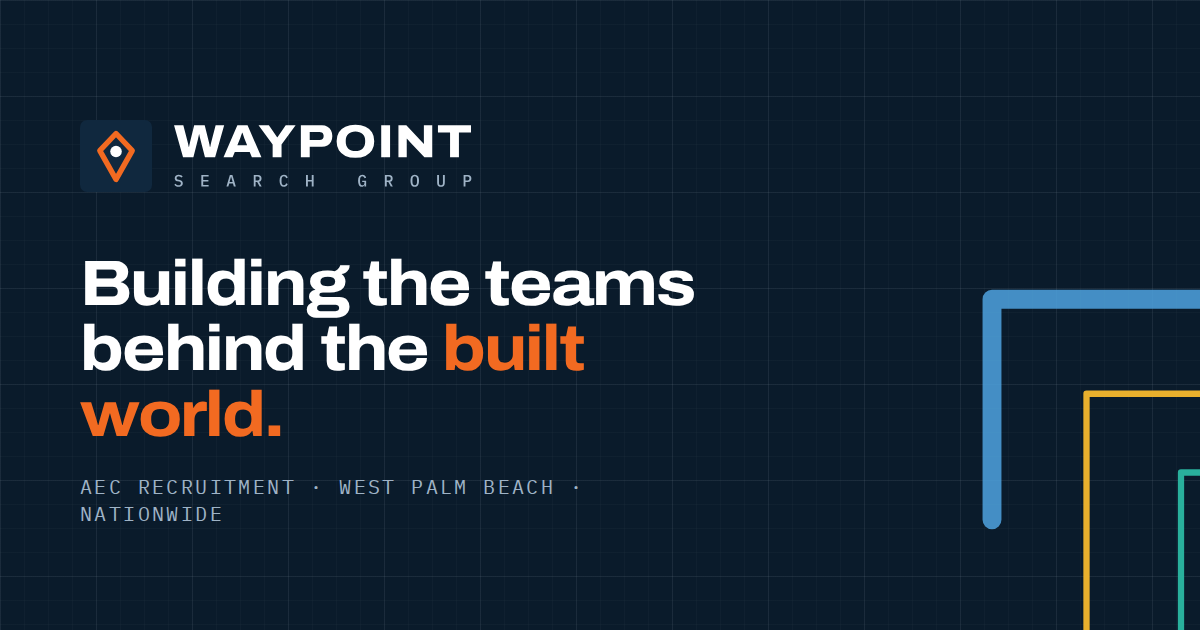
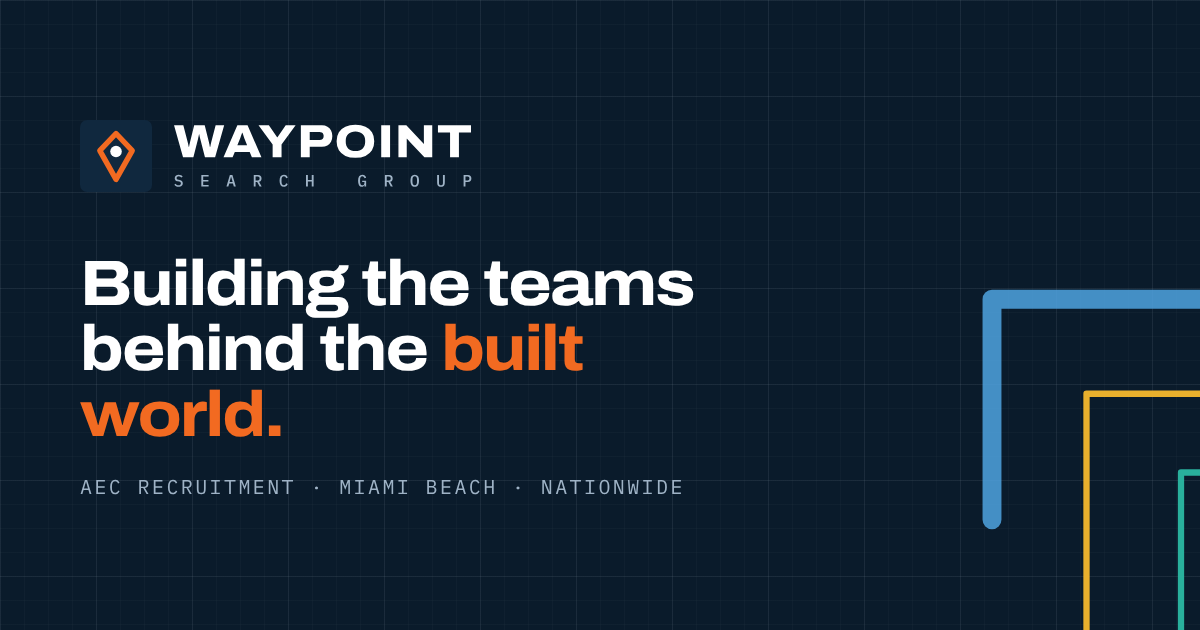
Use Miami Beach mailing address on Waypoint site
Replace the West Palm Beach address with the company's mailing address,
407 Lincoln Road, Suite 6H #1376, Miami Beach, FL 33139, in the footer,
utility bar, contact card, privacy page, meta descriptions, structured
data and map links. Re-render the social share image to match.

Claude-Session: https://claude.ai/code/session_016YGFznVyZapWxq76SbuRbK

diff --git a/waypoint-website/index.html b/waypoint-website/index.html
@@ -4,12 +4,12 @@
   <meta charset="utf-8">
   <meta name="viewport" content="width=device-width, initial-scale=1">
   <title>Waypoint Search Group | MEP, AEC & Construction Recruitment</title>
-  <meta name="description" content="Waypoint Search Group is a West Palm Beach recruitment firm working exclusively in architecture, engineering and construction. MEP, design and construction talent for firms nationwide. You pay only when you hire.">
+  <meta name="description" content="Waypoint Search Group is a Miami Beach recruitment firm working exclusively in architecture, engineering and construction. MEP, design and construction talent for firms nationwide. You pay only when you hire.">
   <link rel="canonical" href="https://waypointsearch.com/">
   <meta property="og:type" content="website">
   <meta property="og:site_name" content="Waypoint Search Group">
   <meta property="og:title" content="Waypoint Search Group | MEP, AEC & Construction Recruitment">
-  <meta property="og:description" content="Waypoint Search Group is a West Palm Beach recruitment firm working exclusively in architecture, engineering and construction. MEP, design and construction talent for firms nationwide. You pay only when you hire.">
+  <meta property="og:description" content="Waypoint Search Group is a Miami Beach recruitment firm working exclusively in architecture, engineering and construction. MEP, design and construction talent for firms nationwide. You pay only when you hire.">
   <meta property="og:url" content="https://waypointsearch.com/">
   <meta name="theme-color" content="#0a1b2b">
   <meta property="og:image" content="https://waypointsearch.com/assets/img/og-image.png">
@@ -24,14 +24,14 @@
   <link rel="stylesheet" href="https://fonts.googleapis.com/css2?family=Archivo:wdth,wght@62..125,100..900&family=IBM+Plex+Mono:wght@400;500&display=swap">
   <link rel="stylesheet" href="/assets/css/styles.css">
   <script>document.documentElement.classList.add("js");</script>
-  <script type="application/ld+json">{"@context":"https://schema.org","@type":"EmploymentAgency","name":"Waypoint Search Group","url":"https://waypointsearch.com/","logo":"https://waypointsearch.com/assets/img/logo-square.png","image":"https://waypointsearch.com/assets/img/og-image.png","telephone":"+1-212-347-0057","email":"info@waypointsearch.com","address":{"@type":"PostalAddress","streetAddress":"700 S. Rosemary Ave, Suite 204","addressLocality":"West Palm Beach","addressRegion":"FL","postalCode":"33401","addressCountry":"US"},"areaServed":"US","description":"Recruitment exclusively for architecture, engineering and construction: MEP engineering, design and construction talent for firms nationwide."}</script>
+  <script type="application/ld+json">{"@context":"https://schema.org","@type":"EmploymentAgency","name":"Waypoint Search Group","url":"https://waypointsearch.com/","logo":"https://waypointsearch.com/assets/img/logo-square.png","image":"https://waypointsearch.com/assets/img/og-image.png","telephone":"+1-212-347-0057","email":"info@waypointsearch.com","address":{"@type":"PostalAddress","streetAddress":"407 Lincoln Rd, Suite 6H #1376","addressLocality":"Miami Beach","addressRegion":"FL","postalCode":"33139","addressCountry":"US"},"areaServed":"US","description":"Recruitment exclusively for architecture, engineering and construction: MEP engineering, design and construction talent for firms nationwide."}</script>
 </head>
 <body>
   <a class="skip-link" href="#main">Skip to content</a>
 
   <div class="utility-bar">
     <div class="container">
-      <p class="utility-left">AEC Recruitment · West Palm Beach, FL · Nationwide</p>
+      <p class="utility-left">AEC Recruitment · Miami Beach, FL · Nationwide</p>
       <div class="utility-right">
         <a href="/jobs#apply">Submit a resume</a>
         <a href="tel:+12123470057"><svg viewBox="0 0 24 24" fill="none" stroke="currentColor" stroke-width="1.7" stroke-linecap="round" stroke-linejoin="round" aria-hidden="true"><path d="M5 4h4l2 5-2.5 1.5a11 11 0 0 0 5 5L15 13l5 2v4a2 2 0 0 1-2 2A16 16 0 0 1 3 6a2 2 0 0 1 2-2"/></svg>(212) 347-0057</a>
@@ -124,7 +124,7 @@
           <ul class="hero-proof">
             <li><svg viewBox="0 0 24 24" fill="none" stroke="currentColor" stroke-width="2" stroke-linecap="round" stroke-linejoin="round" aria-hidden="true"><circle cx="12" cy="12" r="9"/><path d="m8 12.5 3 3 5-6"/></svg>Licensed PEs, RAs &amp; certified specialists</li>
             <li><svg viewBox="0 0 24 24" fill="none" stroke="currentColor" stroke-width="2" stroke-linecap="round" stroke-linejoin="round" aria-hidden="true"><circle cx="12" cy="12" r="9"/><path d="m8 12.5 3 3 5-6"/></svg>Contingency &amp; executive search</li>
-            <li><svg viewBox="0 0 24 24" fill="none" stroke="currentColor" stroke-width="2" stroke-linecap="round" stroke-linejoin="round" aria-hidden="true"><circle cx="12" cy="12" r="9"/><path d="m8 12.5 3 3 5-6"/></svg>West Palm Beach HQ · nationwide reach</li>
+            <li><svg viewBox="0 0 24 24" fill="none" stroke="currentColor" stroke-width="2" stroke-linecap="round" stroke-linejoin="round" aria-hidden="true"><circle cx="12" cy="12" r="9"/><path d="m8 12.5 3 3 5-6"/></svg>Based in Miami Beach · nationwide reach</li>
           </ul>
         </div>
 
@@ -703,7 +703,7 @@
             <a href="tel:+12123470057"><svg viewBox="0 0 24 24" fill="none" stroke="currentColor" stroke-width="1.7" stroke-linecap="round" stroke-linejoin="round" aria-hidden="true"><path d="M5 4h4l2 5-2.5 1.5a11 11 0 0 0 5 5L15 13l5 2v4a2 2 0 0 1-2 2A16 16 0 0 1 3 6a2 2 0 0 1 2-2"/></svg>(212) 347-0057</a>
             <a href="mailto:info@waypointsearch.com"><svg viewBox="0 0 24 24" fill="none" stroke="currentColor" stroke-width="1.7" stroke-linecap="round" stroke-linejoin="round" aria-hidden="true"><rect x="3" y="5" width="18" height="14" rx="2"/><path d="m3 7 9 6 9-6"/></svg>info@waypointsearch.com</a>
           </div>
-          <address class="footer-address"><a href="https://www.google.com/maps/search/?api=1&query=700%20S.%20Rosemary%20Ave%2C%20Suite%20204%2C%20West%20Palm%20Beach%2C%20FL%2033401" rel="noopener" target="_blank"><svg viewBox="0 0 24 24" fill="none" stroke="currentColor" stroke-width="2" stroke-linecap="round" stroke-linejoin="round" aria-hidden="true"><path d="M12 21s-7-6.2-7-12a7 7 0 0 1 14 0c0 5.8-7 12-7 12z"/><circle cx="12" cy="9" r="2.5"/></svg><span>700 S. Rosemary Ave, Suite 204<br>West Palm Beach, FL 33401</span></a></address>
+          <address class="footer-address"><a href="https://www.google.com/maps/search/?api=1&query=407%20Lincoln%20Rd%2C%20Miami%20Beach%2C%20FL%2033139" rel="noopener" target="_blank"><svg viewBox="0 0 24 24" fill="none" stroke="currentColor" stroke-width="2" stroke-linecap="round" stroke-linejoin="round" aria-hidden="true"><path d="M12 21s-7-6.2-7-12a7 7 0 0 1 14 0c0 5.8-7 12-7 12z"/><circle cx="12" cy="9" r="2.5"/></svg><span>407 Lincoln Road, Suite 6H #1376<br>Miami Beach, FL 33139</span></a></address>
         </div>
         <div class="footer-col">
           <h3>Employers</h3>

diff --git a/waypoint-website/contact.html b/waypoint-website/contact.html
@@ -30,7 +30,7 @@
 
   <div class="utility-bar">
     <div class="container">
-      <p class="utility-left">AEC Recruitment · West Palm Beach, FL · Nationwide</p>
+      <p class="utility-left">AEC Recruitment · Miami Beach, FL · Nationwide</p>
       <div class="utility-right">
         <a href="/jobs#apply">Submit a resume</a>
         <a href="tel:+12123470057"><svg viewBox="0 0 24 24" fill="none" stroke="currentColor" stroke-width="1.7" stroke-linecap="round" stroke-linejoin="round" aria-hidden="true"><path d="M5 4h4l2 5-2.5 1.5a11 11 0 0 0 5 5L15 13l5 2v4a2 2 0 0 1-2 2A16 16 0 0 1 3 6a2 2 0 0 1 2-2"/></svg>(212) 347-0057</a>
@@ -152,7 +152,7 @@
             <div class="contact-lines">
               <a href="tel:+12123470057"><svg viewBox="0 0 24 24" fill="none" stroke="currentColor" stroke-width="1.7" stroke-linecap="round" stroke-linejoin="round" aria-hidden="true"><path d="M5 4h4l2 5-2.5 1.5a11 11 0 0 0 5 5L15 13l5 2v4a2 2 0 0 1-2 2A16 16 0 0 1 3 6a2 2 0 0 1 2-2"/></svg>(212) 347-0057</a>
               <a href="mailto:info@waypointsearch.com"><svg viewBox="0 0 24 24" fill="none" stroke="currentColor" stroke-width="1.7" stroke-linecap="round" stroke-linejoin="round" aria-hidden="true"><rect x="3" y="5" width="18" height="14" rx="2"/><path d="m3 7 9 6 9-6"/></svg>info@waypointsearch.com</a>
-              <a href="https://www.google.com/maps/search/?api=1&query=700%20S.%20Rosemary%20Ave%2C%20Suite%20204%2C%20West%20Palm%20Beach%2C%20FL%2033401" rel="noopener" target="_blank"><svg viewBox="0 0 24 24" fill="none" stroke="currentColor" stroke-width="2" stroke-linecap="round" stroke-linejoin="round" aria-hidden="true"><path d="M12 21s-7-6.2-7-12a7 7 0 0 1 14 0c0 5.8-7 12-7 12z"/><circle cx="12" cy="9" r="2.5"/></svg><span>700 S. Rosemary Ave, Suite 204<br>West Palm Beach, FL 33401</span></a>
+              <a href="https://www.google.com/maps/search/?api=1&query=407%20Lincoln%20Rd%2C%20Miami%20Beach%2C%20FL%2033139" rel="noopener" target="_blank"><svg viewBox="0 0 24 24" fill="none" stroke="currentColor" stroke-width="2" stroke-linecap="round" stroke-linejoin="round" aria-hidden="true"><path d="M12 21s-7-6.2-7-12a7 7 0 0 1 14 0c0 5.8-7 12-7 12z"/><circle cx="12" cy="9" r="2.5"/></svg><span>407 Lincoln Road, Suite 6H #1376<br>Miami Beach, FL 33139</span></a>
             </div>
           </div>
           <div class="aside-card aside-light">
@@ -176,7 +176,7 @@
           <li><strong>Northeast</strong><span>Boston · New York · Philadelphia</span></li>
           <li><strong>Mid-Atlantic</strong><span>Washington DC · Northern Virginia · Baltimore</span></li>
           <li><strong>Southeast</strong><span>Atlanta · Charlotte · Nashville</span></li>
-          <li><strong>Florida</strong><span>West Palm Beach (HQ) · Miami · Orlando · Tampa</span></li>
+          <li><strong>Florida (home base)</strong><span>Miami · West Palm Beach · Orlando · Tampa</span></li>
           <li><strong>Texas &amp; South Central</strong><span>Dallas · Houston · Austin</span></li>
           <li><strong>Midwest</strong><span>Chicago · Columbus · Minneapolis</span></li>
           <li><strong>Mountain West</strong><span>Denver · Phoenix · Salt Lake City</span></li>
@@ -208,7 +208,7 @@
             <a href="tel:+12123470057"><svg viewBox="0 0 24 24" fill="none" stroke="currentColor" stroke-width="1.7" stroke-linecap="round" stroke-linejoin="round" aria-hidden="true"><path d="M5 4h4l2 5-2.5 1.5a11 11 0 0 0 5 5L15 13l5 2v4a2 2 0 0 1-2 2A16 16 0 0 1 3 6a2 2 0 0 1 2-2"/></svg>(212) 347-0057</a>
             <a href="mailto:info@waypointsearch.com"><svg viewBox="0 0 24 24" fill="none" stroke="currentColor" stroke-width="1.7" stroke-linecap="round" stroke-linejoin="round" aria-hidden="true"><rect x="3" y="5" width="18" height="14" rx="2"/><path d="m3 7 9 6 9-6"/></svg>info@waypointsearch.com</a>
           </div>
-          <address class="footer-address"><a href="https://www.google.com/maps/search/?api=1&query=700%20S.%20Rosemary%20Ave%2C%20Suite%20204%2C%20West%20Palm%20Beach%2C%20FL%2033401" rel="noopener" target="_blank"><svg viewBox="0 0 24 24" fill="none" stroke="currentColor" stroke-width="2" stroke-linecap="round" stroke-linejoin="round" aria-hidden="true"><path d="M12 21s-7-6.2-7-12a7 7 0 0 1 14 0c0 5.8-7 12-7 12z"/><circle cx="12" cy="9" r="2.5"/></svg><span>700 S. Rosemary Ave, Suite 204<br>West Palm Beach, FL 33401</span></a></address>
+          <address class="footer-address"><a href="https://www.google.com/maps/search/?api=1&query=407%20Lincoln%20Rd%2C%20Miami%20Beach%2C%20FL%2033139" rel="noopener" target="_blank"><svg viewBox="0 0 24 24" fill="none" stroke="currentColor" stroke-width="2" stroke-linecap="round" stroke-linejoin="round" aria-hidden="true"><path d="M12 21s-7-6.2-7-12a7 7 0 0 1 14 0c0 5.8-7 12-7 12z"/><circle cx="12" cy="9" r="2.5"/></svg><span>407 Lincoln Road, Suite 6H #1376<br>Miami Beach, FL 33139</span></a></address>
         </div>
         <div class="footer-col">
           <h3>Employers</h3>

diff --git a/waypoint-website/about.html b/waypoint-website/about.html
@@ -4,12 +4,12 @@
   <meta charset="utf-8">
   <meta name="viewport" content="width=device-width, initial-scale=1">
   <title>About Us | Waypoint Search Group</title>
-  <meta name="description" content="Waypoint Search Group is a West Palm Beach recruitment firm for the built environment, connecting MEP, architecture, engineering and construction talent with the firms that need them.">
+  <meta name="description" content="Waypoint Search Group is a Miami Beach recruitment firm for the built environment, connecting MEP, architecture, engineering and construction talent with the firms that need them.">
   <link rel="canonical" href="https://waypointsearch.com/about">
   <meta property="og:type" content="website">
   <meta property="og:site_name" content="Waypoint Search Group">
   <meta property="og:title" content="About Us | Waypoint Search Group">
-  <meta property="og:description" content="Waypoint Search Group is a West Palm Beach recruitment firm for the built environment, connecting MEP, architecture, engineering and construction talent with the firms that need them.">
+  <meta property="og:description" content="Waypoint Search Group is a Miami Beach recruitment firm for the built environment, connecting MEP, architecture, engineering and construction talent with the firms that need them.">
   <meta property="og:url" content="https://waypointsearch.com/about">
   <meta name="theme-color" content="#0a1b2b">
   <meta property="og:image" content="https://waypointsearch.com/assets/img/og-image.png">
@@ -30,7 +30,7 @@
 
   <div class="utility-bar">
     <div class="container">
-      <p class="utility-left">AEC Recruitment · West Palm Beach, FL · Nationwide</p>
+      <p class="utility-left">AEC Recruitment · Miami Beach, FL · Nationwide</p>
       <div class="utility-right">
         <a href="/jobs#apply">Submit a resume</a>
         <a href="tel:+12123470057"><svg viewBox="0 0 24 24" fill="none" stroke="currentColor" stroke-width="1.7" stroke-linecap="round" stroke-linejoin="round" aria-hidden="true"><path d="M5 4h4l2 5-2.5 1.5a11 11 0 0 0 5 5L15 13l5 2v4a2 2 0 0 1-2 2A16 16 0 0 1 3 6a2 2 0 0 1 2-2"/></svg>(212) 347-0057</a>
@@ -103,7 +103,7 @@
         <aside class="page-hero-aside">
           <dl>
             <div><dt>8</dt><dd>Disciplines, each with a dedicated recruiting focus</dd></div>
-            <div><dt>West Palm Beach</dt><dd>Headquarters, with recruiting coverage nationwide</dd></div>
+            <div><dt>Miami Beach</dt><dd>Home base, with recruiting coverage nationwide</dd></div>
             <div><dt>$0</dt><dd>Cost to candidates — always</dd></div>
           </dl>
         </aside>
@@ -251,7 +251,7 @@
             <a href="tel:+12123470057"><svg viewBox="0 0 24 24" fill="none" stroke="currentColor" stroke-width="1.7" stroke-linecap="round" stroke-linejoin="round" aria-hidden="true"><path d="M5 4h4l2 5-2.5 1.5a11 11 0 0 0 5 5L15 13l5 2v4a2 2 0 0 1-2 2A16 16 0 0 1 3 6a2 2 0 0 1 2-2"/></svg>(212) 347-0057</a>
             <a href="mailto:info@waypointsearch.com"><svg viewBox="0 0 24 24" fill="none" stroke="currentColor" stroke-width="1.7" stroke-linecap="round" stroke-linejoin="round" aria-hidden="true"><rect x="3" y="5" width="18" height="14" rx="2"/><path d="m3 7 9 6 9-6"/></svg>info@waypointsearch.com</a>
           </div>
-          <address class="footer-address"><a href="https://www.google.com/maps/search/?api=1&query=700%20S.%20Rosemary%20Ave%2C%20Suite%20204%2C%20West%20Palm%20Beach%2C%20FL%2033401" rel="noopener" target="_blank"><svg viewBox="0 0 24 24" fill="none" stroke="currentColor" stroke-width="2" stroke-linecap="round" stroke-linejoin="round" aria-hidden="true"><path d="M12 21s-7-6.2-7-12a7 7 0 0 1 14 0c0 5.8-7 12-7 12z"/><circle cx="12" cy="9" r="2.5"/></svg><span>700 S. Rosemary Ave, Suite 204<br>West Palm Beach, FL 33401</span></a></address>
+          <address class="footer-address"><a href="https://www.google.com/maps/search/?api=1&query=407%20Lincoln%20Rd%2C%20Miami%20Beach%2C%20FL%2033139" rel="noopener" target="_blank"><svg viewBox="0 0 24 24" fill="none" stroke="currentColor" stroke-width="2" stroke-linecap="round" stroke-linejoin="round" aria-hidden="true"><path d="M12 21s-7-6.2-7-12a7 7 0 0 1 14 0c0 5.8-7 12-7 12z"/><circle cx="12" cy="9" r="2.5"/></svg><span>407 Lincoln Road, Suite 6H #1376<br>Miami Beach, FL 33139</span></a></address>
         </div>
         <div class="footer-col">
           <h3>Employers</h3>

diff --git a/waypoint-website/privacy.html b/waypoint-website/privacy.html
@@ -30,7 +30,7 @@
 
   <div class="utility-bar">
     <div class="container">
-      <p class="utility-left">AEC Recruitment · West Palm Beach, FL · Nationwide</p>
+      <p class="utility-left">AEC Recruitment · Miami Beach, FL · Nationwide</p>
       <div class="utility-right">
         <a href="/jobs#apply">Submit a resume</a>
         <a href="tel:+12123470057"><svg viewBox="0 0 24 24" fill="none" stroke="currentColor" stroke-width="1.7" stroke-linecap="round" stroke-linejoin="round" aria-hidden="true"><path d="M5 4h4l2 5-2.5 1.5a11 11 0 0 0 5 5L15 13l5 2v4a2 2 0 0 1-2 2A16 16 0 0 1 3 6a2 2 0 0 1 2-2"/></svg>(212) 347-0057</a>
@@ -133,7 +133,7 @@
           <p>You can ask us to access, correct or delete the information we hold about you, or to stop contacting you, at any time. Email <a href="mailto:info@waypointsearch.com">info@waypointsearch.com</a>.</p>
 
           <h2>Contact</h2>
-          <p>Waypoint Search Group<br>700 S. Rosemary Ave, Suite 204<br>West Palm Beach, FL 33401<br><a href="tel:+12123470057">(212) 347-0057</a> · <a href="mailto:info@waypointsearch.com">info@waypointsearch.com</a></p>
+          <p>Waypoint Search Group<br>407 Lincoln Road, Suite 6H #1376<br>Miami Beach, FL 33139<br><a href="tel:+12123470057">(212) 347-0057</a> · <a href="mailto:info@waypointsearch.com">info@waypointsearch.com</a></p>
         </article>
       </div>
     </section>
@@ -161,7 +161,7 @@
             <a href="tel:+12123470057"><svg viewBox="0 0 24 24" fill="none" stroke="currentColor" stroke-width="1.7" stroke-linecap="round" stroke-linejoin="round" aria-hidden="true"><path d="M5 4h4l2 5-2.5 1.5a11 11 0 0 0 5 5L15 13l5 2v4a2 2 0 0 1-2 2A16 16 0 0 1 3 6a2 2 0 0 1 2-2"/></svg>(212) 347-0057</a>
             <a href="mailto:info@waypointsearch.com"><svg viewBox="0 0 24 24" fill="none" stroke="currentColor" stroke-width="1.7" stroke-linecap="round" stroke-linejoin="round" aria-hidden="true"><rect x="3" y="5" width="18" height="14" rx="2"/><path d="m3 7 9 6 9-6"/></svg>info@waypointsearch.com</a>
           </div>
-          <address class="footer-address"><a href="https://www.google.com/maps/search/?api=1&query=700%20S.%20Rosemary%20Ave%2C%20Suite%20204%2C%20West%20Palm%20Beach%2C%20FL%2033401" rel="noopener" target="_blank"><svg viewBox="0 0 24 24" fill="none" stroke="currentColor" stroke-width="2" stroke-linecap="round" stroke-linejoin="round" aria-hidden="true"><path d="M12 21s-7-6.2-7-12a7 7 0 0 1 14 0c0 5.8-7 12-7 12z"/><circle cx="12" cy="9" r="2.5"/></svg><span>700 S. Rosemary Ave, Suite 204<br>West Palm Beach, FL 33401</span></a></address>
+          <address class="footer-address"><a href="https://www.google.com/maps/search/?api=1&query=407%20Lincoln%20Rd%2C%20Miami%20Beach%2C%20FL%2033139" rel="noopener" target="_blank"><svg viewBox="0 0 24 24" fill="none" stroke="currentColor" stroke-width="2" stroke-linecap="round" stroke-linejoin="round" aria-hidden="true"><path d="M12 21s-7-6.2-7-12a7 7 0 0 1 14 0c0 5.8-7 12-7 12z"/><circle cx="12" cy="9" r="2.5"/></svg><span>407 Lincoln Road, Suite 6H #1376<br>Miami Beach, FL 33139</span></a></address>
         </div>
         <div class="footer-col">
           <h3>Employers</h3>

diff --git a/waypoint-website/404.html b/waypoint-website/404.html
@@ -31,7 +31,7 @@
 
   <div class="utility-bar">
     <div class="container">
-      <p class="utility-left">AEC Recruitment · West Palm Beach, FL · Nationwide</p>
+      <p class="utility-left">AEC Recruitment · Miami Beach, FL · Nationwide</p>
       <div class="utility-right">
         <a href="/jobs#apply">Submit a resume</a>
         <a href="tel:+12123470057"><svg viewBox="0 0 24 24" fill="none" stroke="currentColor" stroke-width="1.7" stroke-linecap="round" stroke-linejoin="round" aria-hidden="true"><path d="M5 4h4l2 5-2.5 1.5a11 11 0 0 0 5 5L15 13l5 2v4a2 2 0 0 1-2 2A16 16 0 0 1 3 6a2 2 0 0 1 2-2"/></svg>(212) 347-0057</a>
@@ -130,7 +130,7 @@
             <a href="tel:+12123470057"><svg viewBox="0 0 24 24" fill="none" stroke="currentColor" stroke-width="1.7" stroke-linecap="round" stroke-linejoin="round" aria-hidden="true"><path d="M5 4h4l2 5-2.5 1.5a11 11 0 0 0 5 5L15 13l5 2v4a2 2 0 0 1-2 2A16 16 0 0 1 3 6a2 2 0 0 1 2-2"/></svg>(212) 347-0057</a>
             <a href="mailto:info@waypointsearch.com"><svg viewBox="0 0 24 24" fill="none" stroke="currentColor" stroke-width="1.7" stroke-linecap="round" stroke-linejoin="round" aria-hidden="true"><rect x="3" y="5" width="18" height="14" rx="2"/><path d="m3 7 9 6 9-6"/></svg>info@waypointsearch.com</a>
           </div>
-          <address class="footer-address"><a href="https://www.google.com/maps/search/?api=1&query=700%20S.%20Rosemary%20Ave%2C%20Suite%20204%2C%20West%20Palm%20Beach%2C%20FL%2033401" rel="noopener" target="_blank"><svg viewBox="0 0 24 24" fill="none" stroke="currentColor" stroke-width="2" stroke-linecap="round" stroke-linejoin="round" aria-hidden="true"><path d="M12 21s-7-6.2-7-12a7 7 0 0 1 14 0c0 5.8-7 12-7 12z"/><circle cx="12" cy="9" r="2.5"/></svg><span>700 S. Rosemary Ave, Suite 204<br>West Palm Beach, FL 33401</span></a></address>
+          <address class="footer-address"><a href="https://www.google.com/maps/search/?api=1&query=407%20Lincoln%20Rd%2C%20Miami%20Beach%2C%20FL%2033139" rel="noopener" target="_blank"><svg viewBox="0 0 24 24" fill="none" stroke="currentColor" stroke-width="2" stroke-linecap="round" stroke-linejoin="round" aria-hidden="true"><path d="M12 21s-7-6.2-7-12a7 7 0 0 1 14 0c0 5.8-7 12-7 12z"/><circle cx="12" cy="9" r="2.5"/></svg><span>407 Lincoln Road, Suite 6H #1376<br>Miami Beach, FL 33139</span></a></address>
         </div>
         <div class="footer-col">
           <h3>Employers</h3>

diff --git a/waypoint-website/employers.html b/waypoint-website/employers.html
@@ -30,7 +30,7 @@
 
   <div class="utility-bar">
     <div class="container">
-      <p class="utility-left">AEC Recruitment · West Palm Beach, FL · Nationwide</p>
+      <p class="utility-left">AEC Recruitment · Miami Beach, FL · Nationwide</p>
       <div class="utility-right">
         <a href="/jobs#apply">Submit a resume</a>
         <a href="tel:+12123470057"><svg viewBox="0 0 24 24" fill="none" stroke="currentColor" stroke-width="1.7" stroke-linecap="round" stroke-linejoin="round" aria-hidden="true"><path d="M5 4h4l2 5-2.5 1.5a11 11 0 0 0 5 5L15 13l5 2v4a2 2 0 0 1-2 2A16 16 0 0 1 3 6a2 2 0 0 1 2-2"/></svg>(212) 347-0057</a>
@@ -387,7 +387,7 @@
             <a href="tel:+12123470057"><svg viewBox="0 0 24 24" fill="none" stroke="currentColor" stroke-width="1.7" stroke-linecap="round" stroke-linejoin="round" aria-hidden="true"><path d="M5 4h4l2 5-2.5 1.5a11 11 0 0 0 5 5L15 13l5 2v4a2 2 0 0 1-2 2A16 16 0 0 1 3 6a2 2 0 0 1 2-2"/></svg>(212) 347-0057</a>
             <a href="mailto:info@waypointsearch.com"><svg viewBox="0 0 24 24" fill="none" stroke="currentColor" stroke-width="1.7" stroke-linecap="round" stroke-linejoin="round" aria-hidden="true"><rect x="3" y="5" width="18" height="14" rx="2"/><path d="m3 7 9 6 9-6"/></svg>info@waypointsearch.com</a>
           </div>
-          <address class="footer-address"><a href="https://www.google.com/maps/search/?api=1&query=700%20S.%20Rosemary%20Ave%2C%20Suite%20204%2C%20West%20Palm%20Beach%2C%20FL%2033401" rel="noopener" target="_blank"><svg viewBox="0 0 24 24" fill="none" stroke="currentColor" stroke-width="2" stroke-linecap="round" stroke-linejoin="round" aria-hidden="true"><path d="M12 21s-7-6.2-7-12a7 7 0 0 1 14 0c0 5.8-7 12-7 12z"/><circle cx="12" cy="9" r="2.5"/></svg><span>700 S. Rosemary Ave, Suite 204<br>West Palm Beach, FL 33401</span></a></address>
+          <address class="footer-address"><a href="https://www.google.com/maps/search/?api=1&query=407%20Lincoln%20Rd%2C%20Miami%20Beach%2C%20FL%2033139" rel="noopener" target="_blank"><svg viewBox="0 0 24 24" fill="none" stroke="currentColor" stroke-width="2" stroke-linecap="round" stroke-linejoin="round" aria-hidden="true"><path d="M12 21s-7-6.2-7-12a7 7 0 0 1 14 0c0 5.8-7 12-7 12z"/><circle cx="12" cy="9" r="2.5"/></svg><span>407 Lincoln Road, Suite 6H #1376<br>Miami Beach, FL 33139</span></a></address>
         </div>
         <div class="footer-col">
           <h3>Employers</h3>

diff --git a/waypoint-website/insights-counteroffers.html b/waypoint-website/insights-counteroffers.html
@@ -30,7 +30,7 @@
 
   <div class="utility-bar">
     <div class="container">
-      <p class="utility-left">AEC Recruitment · West Palm Beach, FL · Nationwide</p>
+      <p class="utility-left">AEC Recruitment · Miami Beach, FL · Nationwide</p>
       <div class="utility-right">
         <a href="/jobs#apply">Submit a resume</a>
         <a href="tel:+12123470057"><svg viewBox="0 0 24 24" fill="none" stroke="currentColor" stroke-width="1.7" stroke-linecap="round" stroke-linejoin="round" aria-hidden="true"><path d="M5 4h4l2 5-2.5 1.5a11 11 0 0 0 5 5L15 13l5 2v4a2 2 0 0 1-2 2A16 16 0 0 1 3 6a2 2 0 0 1 2-2"/></svg>(212) 347-0057</a>
@@ -174,7 +174,7 @@
             <a href="tel:+12123470057"><svg viewBox="0 0 24 24" fill="none" stroke="currentColor" stroke-width="1.7" stroke-linecap="round" stroke-linejoin="round" aria-hidden="true"><path d="M5 4h4l2 5-2.5 1.5a11 11 0 0 0 5 5L15 13l5 2v4a2 2 0 0 1-2 2A16 16 0 0 1 3 6a2 2 0 0 1 2-2"/></svg>(212) 347-0057</a>
             <a href="mailto:info@waypointsearch.com"><svg viewBox="0 0 24 24" fill="none" stroke="currentColor" stroke-width="1.7" stroke-linecap="round" stroke-linejoin="round" aria-hidden="true"><rect x="3" y="5" width="18" height="14" rx="2"/><path d="m3 7 9 6 9-6"/></svg>info@waypointsearch.com</a>
           </div>
-          <address class="footer-address"><a href="https://www.google.com/maps/search/?api=1&query=700%20S.%20Rosemary%20Ave%2C%20Suite%20204%2C%20West%20Palm%20Beach%2C%20FL%2033401" rel="noopener" target="_blank"><svg viewBox="0 0 24 24" fill="none" stroke="currentColor" stroke-width="2" stroke-linecap="round" stroke-linejoin="round" aria-hidden="true"><path d="M12 21s-7-6.2-7-12a7 7 0 0 1 14 0c0 5.8-7 12-7 12z"/><circle cx="12" cy="9" r="2.5"/></svg><span>700 S. Rosemary Ave, Suite 204<br>West Palm Beach, FL 33401</span></a></address>
+          <address class="footer-address"><a href="https://www.google.com/maps/search/?api=1&query=407%20Lincoln%20Rd%2C%20Miami%20Beach%2C%20FL%2033139" rel="noopener" target="_blank"><svg viewBox="0 0 24 24" fill="none" stroke="currentColor" stroke-width="2" stroke-linecap="round" stroke-linejoin="round" aria-hidden="true"><path d="M12 21s-7-6.2-7-12a7 7 0 0 1 14 0c0 5.8-7 12-7 12z"/><circle cx="12" cy="9" r="2.5"/></svg><span>407 Lincoln Road, Suite 6H #1376<br>Miami Beach, FL 33139</span></a></address>
         </div>
         <div class="footer-col">
           <h3>Employers</h3>

diff --git a/waypoint-website/insights-hiring-licensed-engineers.html b/waypoint-website/insights-hiring-licensed-engineers.html
@@ -30,7 +30,7 @@
 
   <div class="utility-bar">
     <div class="container">
-      <p class="utility-left">AEC Recruitment · West Palm Beach, FL · Nationwide</p>
+      <p class="utility-left">AEC Recruitment · Miami Beach, FL · Nationwide</p>
       <div class="utility-right">
         <a href="/jobs#apply">Submit a resume</a>
         <a href="tel:+12123470057"><svg viewBox="0 0 24 24" fill="none" stroke="currentColor" stroke-width="1.7" stroke-linecap="round" stroke-linejoin="round" aria-hidden="true"><path d="M5 4h4l2 5-2.5 1.5a11 11 0 0 0 5 5L15 13l5 2v4a2 2 0 0 1-2 2A16 16 0 0 1 3 6a2 2 0 0 1 2-2"/></svg>(212) 347-0057</a>
@@ -173,7 +173,7 @@
             <a href="tel:+12123470057"><svg viewBox="0 0 24 24" fill="none" stroke="currentColor" stroke-width="1.7" stroke-linecap="round" stroke-linejoin="round" aria-hidden="true"><path d="M5 4h4l2 5-2.5 1.5a11 11 0 0 0 5 5L15 13l5 2v4a2 2 0 0 1-2 2A16 16 0 0 1 3 6a2 2 0 0 1 2-2"/></svg>(212) 347-0057</a>
             <a href="mailto:info@waypointsearch.com"><svg viewBox="0 0 24 24" fill="none" stroke="currentColor" stroke-width="1.7" stroke-linecap="round" stroke-linejoin="round" aria-hidden="true"><rect x="3" y="5" width="18" height="14" rx="2"/><path d="m3 7 9 6 9-6"/></svg>info@waypointsearch.com</a>
           </div>
-          <address class="footer-address"><a href="https://www.google.com/maps/search/?api=1&query=700%20S.%20Rosemary%20Ave%2C%20Suite%20204%2C%20West%20Palm%20Beach%2C%20FL%2033401" rel="noopener" target="_blank"><svg viewBox="0 0 24 24" fill="none" stroke="currentColor" stroke-width="2" stroke-linecap="round" stroke-linejoin="round" aria-hidden="true"><path d="M12 21s-7-6.2-7-12a7 7 0 0 1 14 0c0 5.8-7 12-7 12z"/><circle cx="12" cy="9" r="2.5"/></svg><span>700 S. Rosemary Ave, Suite 204<br>West Palm Beach, FL 33401</span></a></address>
+          <address class="footer-address"><a href="https://www.google.com/maps/search/?api=1&query=407%20Lincoln%20Rd%2C%20Miami%20Beach%2C%20FL%2033139" rel="noopener" target="_blank"><svg viewBox="0 0 24 24" fill="none" stroke="currentColor" stroke-width="2" stroke-linecap="round" stroke-linejoin="round" aria-hidden="true"><path d="M12 21s-7-6.2-7-12a7 7 0 0 1 14 0c0 5.8-7 12-7 12z"/><circle cx="12" cy="9" r="2.5"/></svg><span>407 Lincoln Road, Suite 6H #1376<br>Miami Beach, FL 33139</span></a></address>
         </div>
         <div class="footer-col">
           <h3>Employers</h3>

diff --git a/waypoint-website/insights-mission-critical-mep.html b/waypoint-website/insights-mission-critical-mep.html
@@ -30,7 +30,7 @@
 
   <div class="utility-bar">
     <div class="container">
-      <p class="utility-left">AEC Recruitment · West Palm Beach, FL · Nationwide</p>
+      <p class="utility-left">AEC Recruitment · Miami Beach, FL · Nationwide</p>
       <div class="utility-right">
         <a href="/jobs#apply">Submit a resume</a>
         <a href="tel:+12123470057"><svg viewBox="0 0 24 24" fill="none" stroke="currentColor" stroke-width="1.7" stroke-linecap="round" stroke-linejoin="round" aria-hidden="true"><path d="M5 4h4l2 5-2.5 1.5a11 11 0 0 0 5 5L15 13l5 2v4a2 2 0 0 1-2 2A16 16 0 0 1 3 6a2 2 0 0 1 2-2"/></svg>(212) 347-0057</a>
@@ -174,7 +174,7 @@
             <a href="tel:+12123470057"><svg viewBox="0 0 24 24" fill="none" stroke="currentColor" stroke-width="1.7" stroke-linecap="round" stroke-linejoin="round" aria-hidden="true"><path d="M5 4h4l2 5-2.5 1.5a11 11 0 0 0 5 5L15 13l5 2v4a2 2 0 0 1-2 2A16 16 0 0 1 3 6a2 2 0 0 1 2-2"/></svg>(212) 347-0057</a>
             <a href="mailto:info@waypointsearch.com"><svg viewBox="0 0 24 24" fill="none" stroke="currentColor" stroke-width="1.7" stroke-linecap="round" stroke-linejoin="round" aria-hidden="true"><rect x="3" y="5" width="18" height="14" rx="2"/><path d="m3 7 9 6 9-6"/></svg>info@waypointsearch.com</a>
           </div>
-          <address class="footer-address"><a href="https://www.google.com/maps/search/?api=1&query=700%20S.%20Rosemary%20Ave%2C%20Suite%20204%2C%20West%20Palm%20Beach%2C%20FL%2033401" rel="noopener" target="_blank"><svg viewBox="0 0 24 24" fill="none" stroke="currentColor" stroke-width="2" stroke-linecap="round" stroke-linejoin="round" aria-hidden="true"><path d="M12 21s-7-6.2-7-12a7 7 0 0 1 14 0c0 5.8-7 12-7 12z"/><circle cx="12" cy="9" r="2.5"/></svg><span>700 S. Rosemary Ave, Suite 204<br>West Palm Beach, FL 33401</span></a></address>
+          <address class="footer-address"><a href="https://www.google.com/maps/search/?api=1&query=407%20Lincoln%20Rd%2C%20Miami%20Beach%2C%20FL%2033139" rel="noopener" target="_blank"><svg viewBox="0 0 24 24" fill="none" stroke="currentColor" stroke-width="2" stroke-linecap="round" stroke-linejoin="round" aria-hidden="true"><path d="M12 21s-7-6.2-7-12a7 7 0 0 1 14 0c0 5.8-7 12-7 12z"/><circle cx="12" cy="9" r="2.5"/></svg><span>407 Lincoln Road, Suite 6H #1376<br>Miami Beach, FL 33139</span></a></address>
         </div>
         <div class="footer-col">
           <h3>Employers</h3>

diff --git a/waypoint-website/insights.html b/waypoint-website/insights.html
@@ -30,7 +30,7 @@
 
   <div class="utility-bar">
     <div class="container">
-      <p class="utility-left">AEC Recruitment · West Palm Beach, FL · Nationwide</p>
+      <p class="utility-left">AEC Recruitment · Miami Beach, FL · Nationwide</p>
       <div class="utility-right">
         <a href="/jobs#apply">Submit a resume</a>
         <a href="tel:+12123470057"><svg viewBox="0 0 24 24" fill="none" stroke="currentColor" stroke-width="1.7" stroke-linecap="round" stroke-linejoin="round" aria-hidden="true"><path d="M5 4h4l2 5-2.5 1.5a11 11 0 0 0 5 5L15 13l5 2v4a2 2 0 0 1-2 2A16 16 0 0 1 3 6a2 2 0 0 1 2-2"/></svg>(212) 347-0057</a>
@@ -185,7 +185,7 @@
             <a href="tel:+12123470057"><svg viewBox="0 0 24 24" fill="none" stroke="currentColor" stroke-width="1.7" stroke-linecap="round" stroke-linejoin="round" aria-hidden="true"><path d="M5 4h4l2 5-2.5 1.5a11 11 0 0 0 5 5L15 13l5 2v4a2 2 0 0 1-2 2A16 16 0 0 1 3 6a2 2 0 0 1 2-2"/></svg>(212) 347-0057</a>
             <a href="mailto:info@waypointsearch.com"><svg viewBox="0 0 24 24" fill="none" stroke="currentColor" stroke-width="1.7" stroke-linecap="round" stroke-linejoin="round" aria-hidden="true"><rect x="3" y="5" width="18" height="14" rx="2"/><path d="m3 7 9 6 9-6"/></svg>info@waypointsearch.com</a>
           </div>
-          <address class="footer-address"><a href="https://www.google.com/maps/search/?api=1&query=700%20S.%20Rosemary%20Ave%2C%20Suite%20204%2C%20West%20Palm%20Beach%2C%20FL%2033401" rel="noopener" target="_blank"><svg viewBox="0 0 24 24" fill="none" stroke="currentColor" stroke-width="2" stroke-linecap="round" stroke-linejoin="round" aria-hidden="true"><path d="M12 21s-7-6.2-7-12a7 7 0 0 1 14 0c0 5.8-7 12-7 12z"/><circle cx="12" cy="9" r="2.5"/></svg><span>700 S. Rosemary Ave, Suite 204<br>West Palm Beach, FL 33401</span></a></address>
+          <address class="footer-address"><a href="https://www.google.com/maps/search/?api=1&query=407%20Lincoln%20Rd%2C%20Miami%20Beach%2C%20FL%2033139" rel="noopener" target="_blank"><svg viewBox="0 0 24 24" fill="none" stroke="currentColor" stroke-width="2" stroke-linecap="round" stroke-linejoin="round" aria-hidden="true"><path d="M12 21s-7-6.2-7-12a7 7 0 0 1 14 0c0 5.8-7 12-7 12z"/><circle cx="12" cy="9" r="2.5"/></svg><span>407 Lincoln Road, Suite 6H #1376<br>Miami Beach, FL 33139</span></a></address>
         </div>
         <div class="footer-col">
           <h3>Employers</h3>

diff --git a/waypoint-website/jobs.html b/waypoint-website/jobs.html
@@ -30,7 +30,7 @@
 
   <div class="utility-bar">
     <div class="container">
-      <p class="utility-left">AEC Recruitment · West Palm Beach, FL · Nationwide</p>
+      <p class="utility-left">AEC Recruitment · Miami Beach, FL · Nationwide</p>
       <div class="utility-right">
         <a href="/jobs#apply">Submit a resume</a>
         <a href="tel:+12123470057"><svg viewBox="0 0 24 24" fill="none" stroke="currentColor" stroke-width="1.7" stroke-linecap="round" stroke-linejoin="round" aria-hidden="true"><path d="M5 4h4l2 5-2.5 1.5a11 11 0 0 0 5 5L15 13l5 2v4a2 2 0 0 1-2 2A16 16 0 0 1 3 6a2 2 0 0 1 2-2"/></svg>(212) 347-0057</a>
@@ -266,7 +266,7 @@
             <a href="tel:+12123470057"><svg viewBox="0 0 24 24" fill="none" stroke="currentColor" stroke-width="1.7" stroke-linecap="round" stroke-linejoin="round" aria-hidden="true"><path d="M5 4h4l2 5-2.5 1.5a11 11 0 0 0 5 5L15 13l5 2v4a2 2 0 0 1-2 2A16 16 0 0 1 3 6a2 2 0 0 1 2-2"/></svg>(212) 347-0057</a>
             <a href="mailto:info@waypointsearch.com"><svg viewBox="0 0 24 24" fill="none" stroke="currentColor" stroke-width="1.7" stroke-linecap="round" stroke-linejoin="round" aria-hidden="true"><rect x="3" y="5" width="18" height="14" rx="2"/><path d="m3 7 9 6 9-6"/></svg>info@waypointsearch.com</a>
           </div>
-          <address class="footer-address"><a href="https://www.google.com/maps/search/?api=1&query=700%20S.%20Rosemary%20Ave%2C%20Suite%20204%2C%20West%20Palm%20Beach%2C%20FL%2033401" rel="noopener" target="_blank"><svg viewBox="0 0 24 24" fill="none" stroke="currentColor" stroke-width="2" stroke-linecap="round" stroke-linejoin="round" aria-hidden="true"><path d="M12 21s-7-6.2-7-12a7 7 0 0 1 14 0c0 5.8-7 12-7 12z"/><circle cx="12" cy="9" r="2.5"/></svg><span>700 S. Rosemary Ave, Suite 204<br>West Palm Beach, FL 33401</span></a></address>
+          <address class="footer-address"><a href="https://www.google.com/maps/search/?api=1&query=407%20Lincoln%20Rd%2C%20Miami%20Beach%2C%20FL%2033139" rel="noopener" target="_blank"><svg viewBox="0 0 24 24" fill="none" stroke="currentColor" stroke-width="2" stroke-linecap="round" stroke-linejoin="round" aria-hidden="true"><path d="M12 21s-7-6.2-7-12a7 7 0 0 1 14 0c0 5.8-7 12-7 12z"/><circle cx="12" cy="9" r="2.5"/></svg><span>407 Lincoln Road, Suite 6H #1376<br>Miami Beach, FL 33139</span></a></address>
         </div>
         <div class="footer-col">
           <h3>Employers</h3>

diff --git a/waypoint-website/sectors.html b/waypoint-website/sectors.html
@@ -30,7 +30,7 @@
 
   <div class="utility-bar">
     <div class="container">
-      <p class="utility-left">AEC Recruitment · West Palm Beach, FL · Nationwide</p>
+      <p class="utility-left">AEC Recruitment · Miami Beach, FL · Nationwide</p>
       <div class="utility-right">
         <a href="/jobs#apply">Submit a resume</a>
         <a href="tel:+12123470057"><svg viewBox="0 0 24 24" fill="none" stroke="currentColor" stroke-width="1.7" stroke-linecap="round" stroke-linejoin="round" aria-hidden="true"><path d="M5 4h4l2 5-2.5 1.5a11 11 0 0 0 5 5L15 13l5 2v4a2 2 0 0 1-2 2A16 16 0 0 1 3 6a2 2 0 0 1 2-2"/></svg>(212) 347-0057</a>
@@ -384,7 +384,7 @@
             <a href="tel:+12123470057"><svg viewBox="0 0 24 24" fill="none" stroke="currentColor" stroke-width="1.7" stroke-linecap="round" stroke-linejoin="round" aria-hidden="true"><path d="M5 4h4l2 5-2.5 1.5a11 11 0 0 0 5 5L15 13l5 2v4a2 2 0 0 1-2 2A16 16 0 0 1 3 6a2 2 0 0 1 2-2"/></svg>(212) 347-0057</a>
             <a href="mailto:info@waypointsearch.com"><svg viewBox="0 0 24 24" fill="none" stroke="currentColor" stroke-width="1.7" stroke-linecap="round" stroke-linejoin="round" aria-hidden="true"><rect x="3" y="5" width="18" height="14" rx="2"/><path d="m3 7 9 6 9-6"/></svg>info@waypointsearch.com</a>
           </div>
-          <address class="footer-address"><a href="https://www.google.com/maps/search/?api=1&query=700%20S.%20Rosemary%20Ave%2C%20Suite%20204%2C%20West%20Palm%20Beach%2C%20FL%2033401" rel="noopener" target="_blank"><svg viewBox="0 0 24 24" fill="none" stroke="currentColor" stroke-width="2" stroke-linecap="round" stroke-linejoin="round" aria-hidden="true"><path d="M12 21s-7-6.2-7-12a7 7 0 0 1 14 0c0 5.8-7 12-7 12z"/><circle cx="12" cy="9" r="2.5"/></svg><span>700 S. Rosemary Ave, Suite 204<br>West Palm Beach, FL 33401</span></a></address>
+          <address class="footer-address"><a href="https://www.google.com/maps/search/?api=1&query=407%20Lincoln%20Rd%2C%20Miami%20Beach%2C%20FL%2033139" rel="noopener" target="_blank"><svg viewBox="0 0 24 24" fill="none" stroke="currentColor" stroke-width="2" stroke-linecap="round" stroke-linejoin="round" aria-hidden="true"><path d="M12 21s-7-6.2-7-12a7 7 0 0 1 14 0c0 5.8-7 12-7 12z"/><circle cx="12" cy="9" r="2.5"/></svg><span>407 Lincoln Road, Suite 6H #1376<br>Miami Beach, FL 33139</span></a></address>
         </div>
         <div class="footer-col">
           <h3>Employers</h3>
